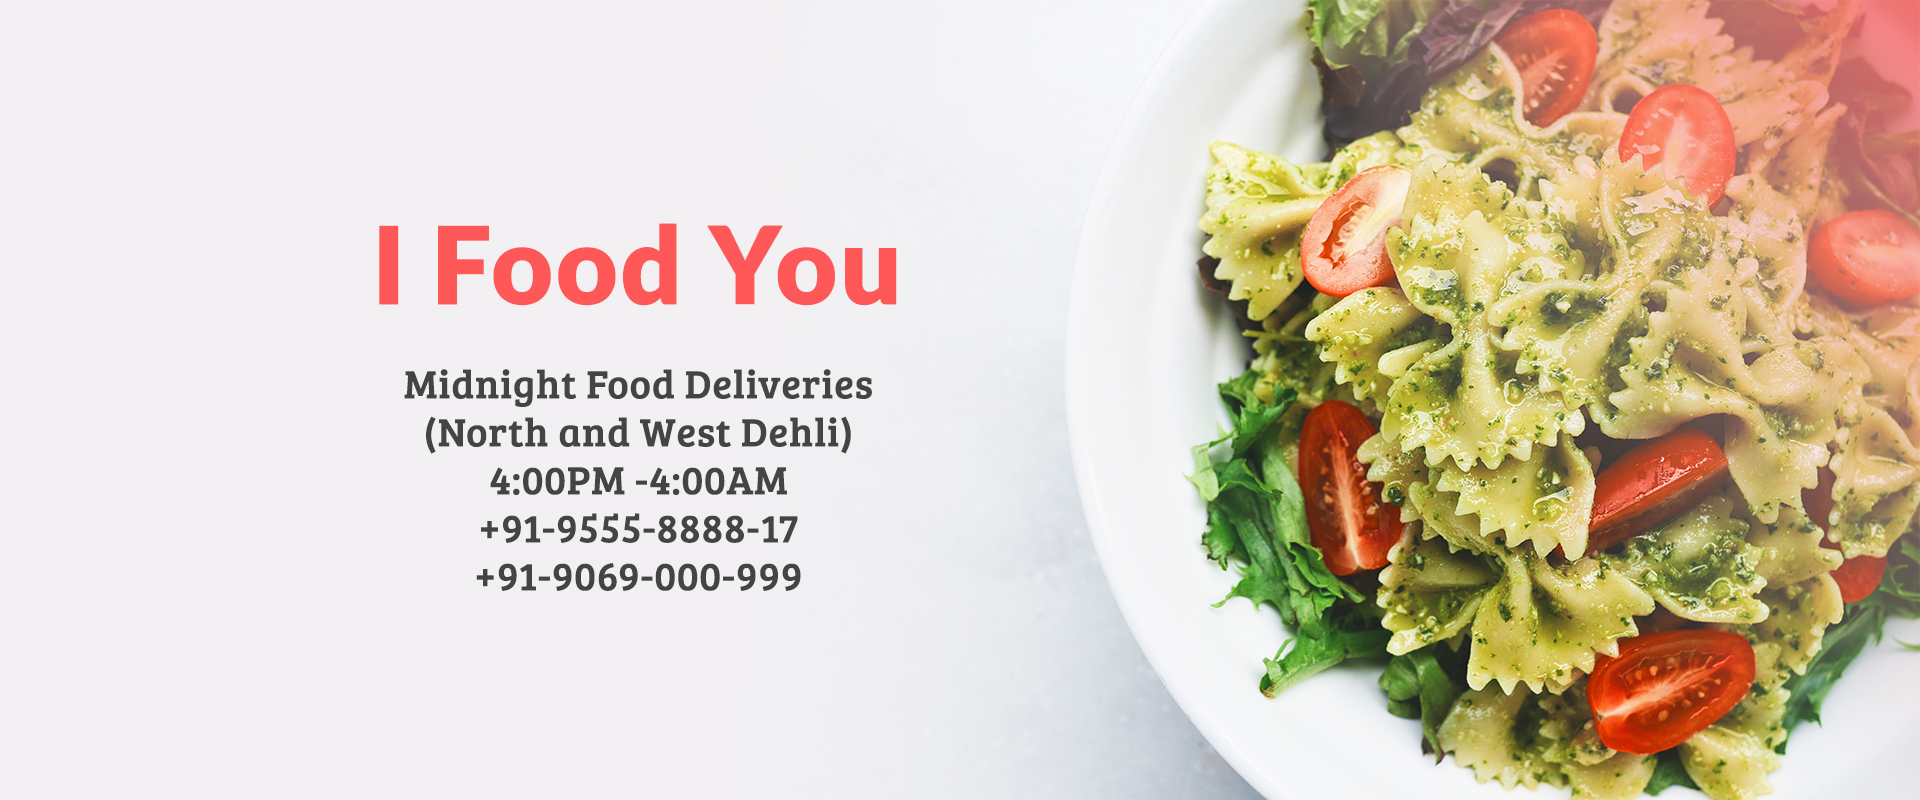
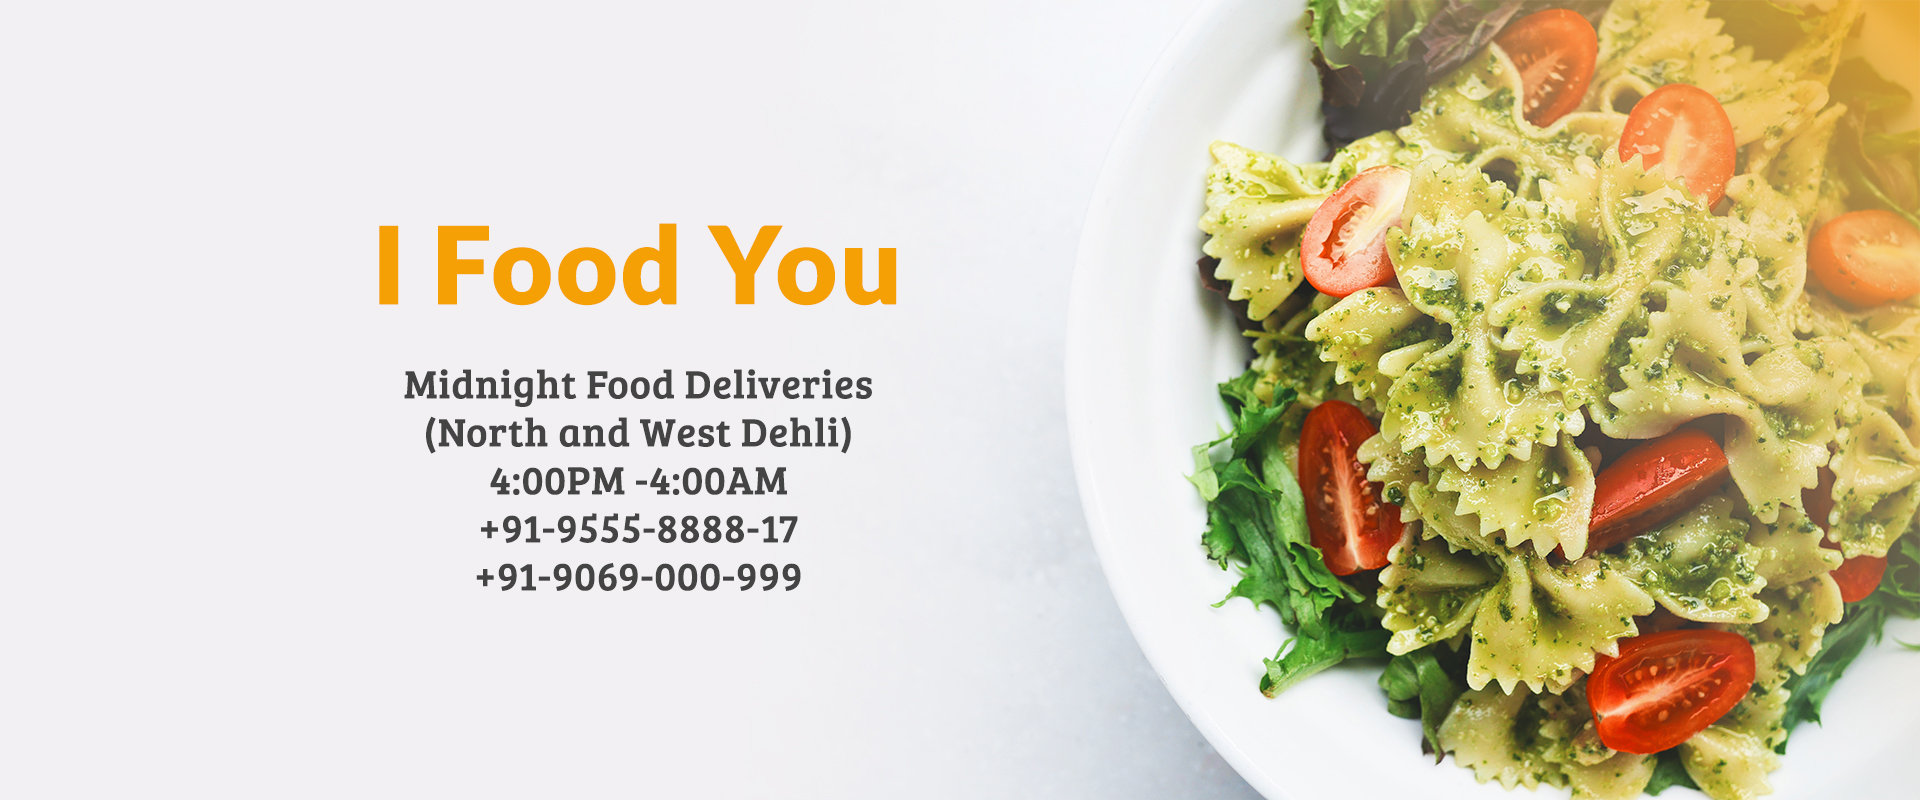
copyright link added

Changed region(s): [[0.8125, 0.0, 1.0, 0.4375], [0.1875, 0.2812, 0.4688, 0.4062]]

diff --git a/index.html b/index.html
@@ -139,7 +139,7 @@
 					<div id="slider-direction-1" class="slider-direction slide-1">
 						<!-- layer-1 -->
 						<div class="layer-1-1">
-							<img src="img/slider/slide1-img.png" alt="" />
+							<img src="img/slider/slide1-img.jpg" alt="" />
 						</div>
 						<div class="slide1-content">
 							<!-- layer-2 -->
@@ -149,7 +149,7 @@
 							</div>
 							<!-- layer-3 -->
 							<div class="layer-1-3">
-								<p>North,west Delhi's first late night food dlivey kitchen! Turn your late night hunger pangs into a midnight feast! Choose from our wide range of delectable dishes to cure your cravings.<br>
+								<p>North,west Delhi's first late night food delivery kitchen! Turn your late night hunger pangs into a midnight feast! Choose from our wide range of delectable dishes to cure your cravings.<br>
 								Why should Gurgaon have all the fun?  </p>
 							</div>
 							<!-- layer-4 -->
@@ -1328,12 +1328,12 @@
 							<!-- single-blog-post start -->
 							<div class="single-blog-post">
 								<div class="post-img">
-									<a href="#">
+									<a href="https://www.facebook.com/Ifoodyou2016/?fref=ts"target="_blank">
 										<img src="img/latest-blogs/1.jpg" alt="" />
 									</a>
 									<div class="post-overlay">
 										<div class="post-icon">
-											<a href="#"><i class="zmdi zmdi-link"></i></a>
+											<a href="https://www.facebook.com/Ifoodyou2016/?fref=ts"target="_blank"><i class="zmdi zmdi-link"></i></a>
 										</div>
 									</div>
 								</div>
@@ -1341,7 +1341,7 @@
 									<p class="post-meta"><span>2</span> // Oct, 2016</p>
 					
 									<p class="post-excerpt">Here comes navratra.. Jai Mata Di <br> Don't Miss out on LIP Smacking food this Navratra with I FOOD YOU.</p>
-									<a href="#" class="read-more">Read more</a>
+									<a href="https://www.facebook.com/Ifoodyou2016/?fref=ts"target="_blank" class="read-more">Read more</a>
 								</div>
 							</div>
 							<!-- single-blog-post start -->
@@ -1350,12 +1350,12 @@
 							<!-- single-blog-post start -->
 							<div class="single-blog-post">
 								<div class="post-img">
-									<a href="#">
+									<a href="https://www.facebook.com/Ifoodyou2016/?fref=ts"target="_blank">
 										<img src="img/latest-blogs/2.jpg" alt="" />
 									</a>
 									<div class="post-overlay">
 										<div class="post-icon">
-											<a href="#"><i class="zmdi zmdi-link"></i></a>
+											<a href="https://www.facebook.com/Ifoodyou2016/?fref=ts"target="_blank"><i class="zmdi zmdi-link"></i></a>
 										</div>
 									</div>
 								</div>
@@ -1363,7 +1363,7 @@
 									<p class="post-meta"><span>4</span> // June, 2016</p>
 								
 									<p class="post-excerpt">Everything seems worth it, when your guests are happy! <br> Thanks for all the love folks,would not have been possible without your support.</p>
-									<a href="#" class="read-more">Read more</a>
+									<a href="https://www.facebook.com/Ifoodyou2016/?fref=ts"target="_blank" class="read-more">Read more</a>
 								</div>
 							</div>
 							<!-- single-blog-post start -->
@@ -1372,12 +1372,12 @@
 							<!-- single-blog-post start -->
 							<div class="single-blog-post">
 								<div class="post-img">
-									<a href="#">
+									<a href="https://www.facebook.com/Ifoodyou2016/?fref=ts"target="_blank">
 										<img src="img/latest-blogs/3.jpg" alt="" />
 									</a>
 									<div class="post-overlay">
 										<div class="post-icon">
-											<a href="#"><i class="zmdi zmdi-link"></i></a>
+											<a href="https://www.facebook.com/Ifoodyou2016/?fref=ts"target="_blank"><i class="zmdi zmdi-link"></i></a>
 										</div>
 									</div>
 								</div>
@@ -1385,7 +1385,7 @@
 									<p class="post-meta"><span>20</span> // May, 2016</p>
 									
 									<p class="post-excerpt">Just imagine<br> You come back home after a movie/party on a Saturday night<br> Ab Ji lag gayi bhoook,mast sa grilled paneer tikka sandwich mil jaye to kaisa rahega?</p>
-									<a href="#" class="read-more">Read more</a>
+									<a href="https://www.facebook.com/Ifoodyou2016/?fref=ts"target="_blank" class="read-more">Read more</a>
 								</div>
 							</div>
 							<!-- single-blog-post start -->
@@ -1709,7 +1709,7 @@
 					</div>
 				</div>
 			</div>
-		</div>
+	</div>
 		<!-- testimonial-area end -->
 		<!-- contact-area start -->
 		<div id="contact" class="contact-area">
@@ -1736,7 +1736,7 @@
 					<div class="container">
 						<div class="row">
 							<div class="col-md-12">
-								<p class="copyright-text">&copy; 2016.Software Developer - DTU. All rights reserved.</p>
+								<p class="copyright-text">&copy; 2016.Software Developers - Delhi Technological University| <a href="sddtu.org">sddtu.org</a> All rights reserved.</p>
 							</div>
 						</div>
 					</div>

diff --git a/style.css b/style.css
@@ -426,7 +426,7 @@ h6{font-size:20px;}
   background: #999 none repeat scroll 0 0;
 }
 .slide1-content {
-	border-left: 5px solid #fc7878;
+	border-left: 5px solid #ff9933;
 	padding-left: 35px;
 	position: absolute;
 	right: 15.3%;
@@ -1057,7 +1057,7 @@ h6{font-size:20px;}
 	color: #ff9933;
 }
 .post-details .read-more {
-	border: 2px solid #faa7a7;
+	border: 2px solid #ff9933;
 	border-radius: 5px;
 	color: #666;
 	display: inline-block;
